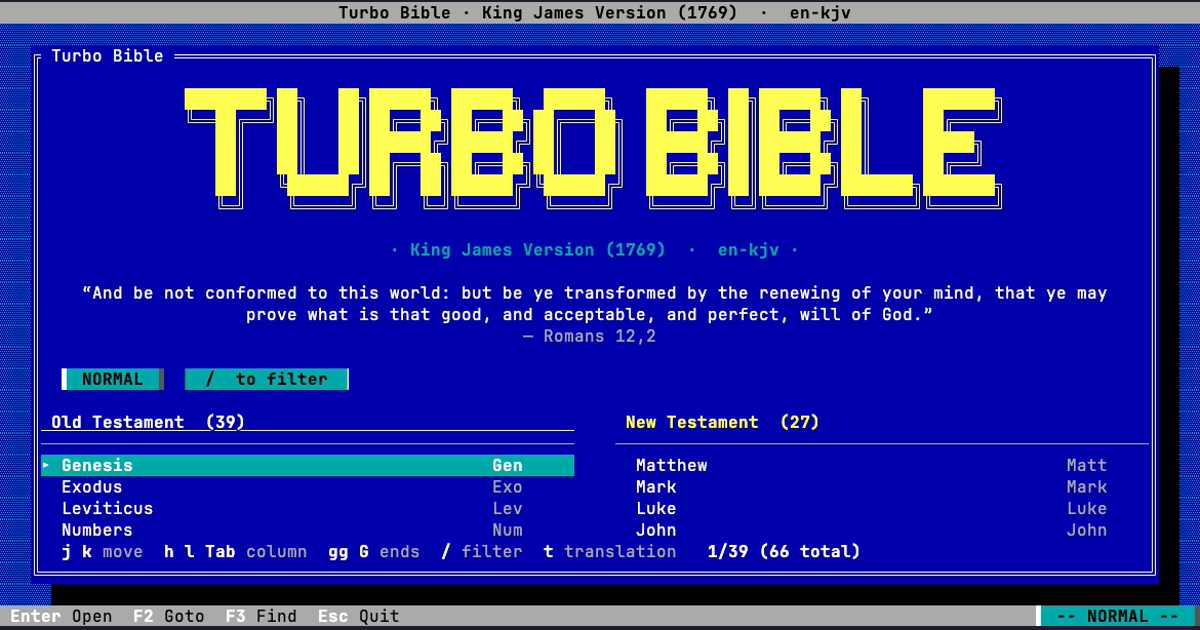
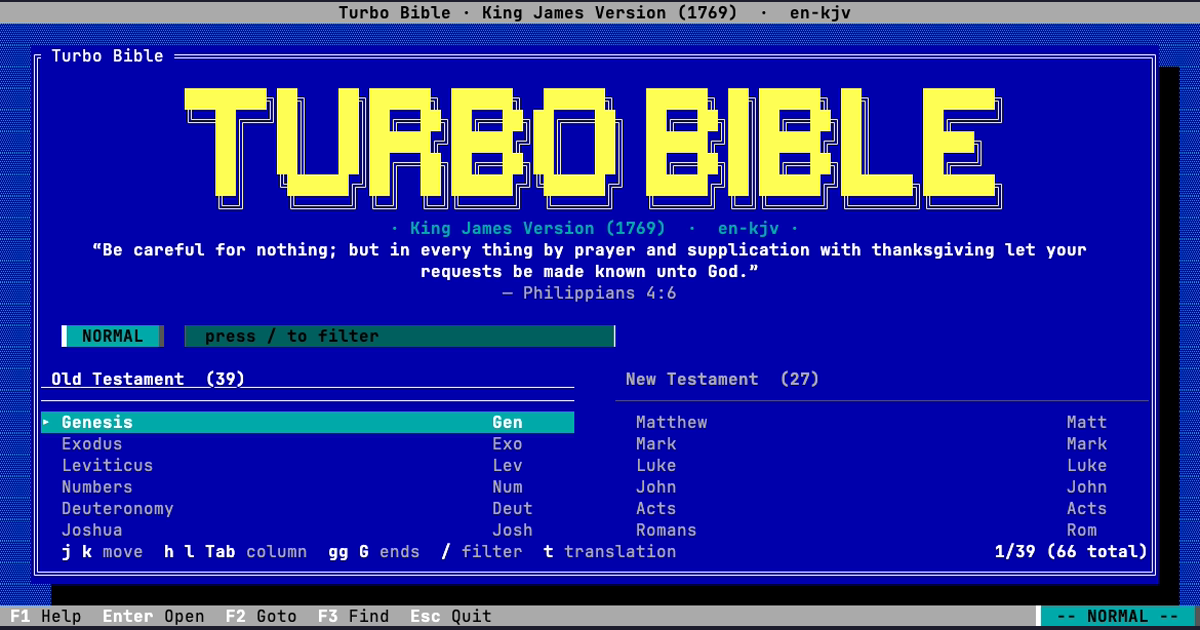
chore(release): prep v0.2.0 — version bump, changelog, doc + site fixes
Release-readiness pass ahead of the v0.2.0 tag and public launch.

Release plumbing:
- Bump both crates 0.1.0 -> 0.2.0 (v0.1.0 is already tagged).
- Rewrite the CHANGELOG: fold [Unreleased] into [0.2.0] with an Added
  block covering the features shipped since 0.1.0 (import, compare panes,
  mouse selection, update banner, Homebrew tap, async downloads, poetry
  indent, localized labels, viewport-sized page motion) + compare-link
  footers. NOTE: adjust the 2026-06-04 date to the actual tag date.
- Add documentation = "https://turbo.bible" (lib.rs is an empty shim, so
  docs.rs would be near-blank).
- Drop the unused `time` dependency (tui crate + workspace); build verified.
- Move internal BACKLOG.md under docs/ so it isn't in the repo-root spotlight.

Documentation accuracy (README + docs/USAGE.md):
- Remove the false "first launch rebuilds the FTS5 index (~1 s)" claim —
  the pipeline ships FTS5 prebuilt; there is no runtime rebuild.
- Goto accepts three chapter/verse separators (:, ,, .), not "a plain space".
- Document the previously-undocumented [input] keymap (vim | turbo) option.
- Fix "eight palette slots" -> twelve and extend the theme example.
- Reading-view caption: cursor row is teal, not cyan.
- Stop the README mouse section implying a visual range yanks (`y` copies
  the cursor verse only in v1).

Website:
- Mention mouse selection (shipped after the last site update).
- Bump stale version strings (JSON-LD softwareVersion, hero tag) 0.1 -> 0.2.
[…]

diff --git a/website/index.html b/website/index.html
@@ -48,7 +48,7 @@
       "url": "https://turbo.bible/",
       "image": "https://turbo.bible/og-image.png",
       "screenshot": "https://turbo.bible/og-image.png",
-      "softwareVersion": "0.1",
+      "softwareVersion": "0.2",
       "downloadUrl": "https://turbo.bible/install.sh",
       "softwareHelp": "https://github.com/mathiasror/turbo-bible#readme",
       "license": [
@@ -105,7 +105,7 @@
   <!-- ==================== HERO ==================== -->
   <section class="panel hero" data-screen-label="01 Hero">
     <div class="title">Turbo Bible</div>
-    <span class="right-tag">v0.1</span>
+    <span class="right-tag">v0.2</span>
 
     <h1 class="hero-title">TURBO BIBLE</h1>
 
@@ -213,7 +213,7 @@
       <div class="feat">
         <div class="num">// 06</div>
         <h3>Bookmarks, visual selection, clipboard.</h3>
-        <p>Press <code>b</code> to bookmark a verse, <code>v</code>/<code>V</code> to select a range, <code>y</code> to copy verse + reference. Quotes show up in your notes already attributed.</p>
+        <p>Press <code>b</code> to bookmark a verse, <code>v</code>/<code>V</code> to select a range, <code>y</code> to copy verse + reference. Quotes show up in your notes already attributed. Mouse works too — click or drag to select, shift-click to extend.</p>
       </div>
       <div class="feat">
         <div class="num">// 07</div>

diff --git a/CHANGELOG.md b/CHANGELOG.md
@@ -4,7 +4,41 @@ All notable changes to this project will be documented here. Format
 roughly follows [Keep a Changelog](https://keepachangelog.com/en/1.1.0/);
 versions roughly follow [SemVer](https://semver.org/) until 1.0.
 
-## [Unreleased]
+## [0.2.0] - 2026-06-04
+
+### Added
+
+- **`turbo-bible import`** — build and install a custom translation from a JSON
+  file (books → chapters → verses keyed by OSIS code or English book name),
+  without the data pipeline. It compiles a SQLite DB alongside the bundled
+  translations, selectable via `--translation` and in the `t` picker.
+- **Side-by-side compare panes.** vim-style `Ctrl-W` window-splits read several
+  translations — or a cross-referenced passage — at once; each pane is an
+  independent reader with its own translation, position, cursor, scroll, and
+  visual selection. `s` in the `K` cross-reference popup opens the selected xref
+  in a new pane.
+- **Mouse-driven verse selection** in the reading view and on the splash: click
+  to move the cursor, click-drag to select a range (auto-scrolling at the
+  edges), shift-click to extend the selection, the scroll wheel to scroll, and a
+  click on a splash book to open it.
+- **Notify-only update banner** on the splash: checks GitHub for a newer release
+  at most once every 24 hours and surfaces the right upgrade command for how the
+  copy was installed (brew / cargo / curl). It never downloads or replaces the
+  binary, and is suppressed by `[updates] check = false`, `TB_NO_UPDATE_CHECK`,
+  or `CI`.
+- **Homebrew tap** as a third install method (`brew install` from
+  `mathiasror/tap`).
+- **Off-event-loop translation downloads** — fetching the non-bundled
+  translations and the cross-references DB now happens on a background thread, so
+  the UI stays responsive and download outcomes (and distinct failure modes) are
+  surfaced in-TUI.
+- **Poetry-passage indent** — known poetic passages (Psalms, Proverbs, Song of
+  Solomon, Lamentations, and Job's dialogue) get a whole-verse left indent to set
+  them apart from prose.
+- **Localized book-name labels** for German / French / Portuguese / Latin, plus
+  Portuguese and Latin testament headings on the splash.
+- **Viewport-sized page motion** — `Ctrl-D` / `Ctrl-U` / `Ctrl-F` / `Ctrl-B`
+  now scale their half-/full-page jumps to the number of visible rows.
 
 ### Changed
 
@@ -115,3 +149,6 @@ Initial release.
 - `#![deny(unsafe_code)]` at the crate root.
 - A RAII terminal guard that restores the terminal even if a draw
   panics, and atomic translation switching that rolls back on failure.
+
+[0.2.0]: https://github.com/mathiasror/turbo-bible/compare/v0.1.0...v0.2.0
+[0.1.0]: https://github.com/mathiasror/turbo-bible/releases/tag/v0.1.0

diff --git a/docs/USAGE.md b/docs/USAGE.md
@@ -26,10 +26,10 @@ reference, see the [README](../README.md). For an animated overview, see
 The King James Version is embedded in the binary and extracted into
 `$XDG_DATA_HOME/turbo-bible/translations/` on first launch, so there is
 nothing to install before reading. Launch with `cargo run -p turbo-bible
---release`. The first launch rebuilds the FTS5 index with a
-diacritic-folding tokenizer and a prefix index. This takes about a
-second and is cached — subsequent launches start instantly. (The other
-ten translations and the shared cross-references DB download from GitHub
+--release`. Search works immediately — the FTS5 index (a
+diacritic-folding tokenizer and a prefix index) ships prebuilt in each
+translation database, so there is no runtime rebuild. (The other ten
+translations and the shared cross-references DB download from GitHub
 Releases the first time you open them.)
 
 You land on the splash screen. If you'd rather skip it and jump straight
@@ -82,7 +82,7 @@ Goto, `/` is filter on splash but `F3` for Find from anywhere,
 
 ## The reading view
 
-![Reading view — John 3:16, cursor verse highlighted in cyan](screenshots/03-reading.png)
+![Reading view — John 3:16, cursor verse highlighted in teal](screenshots/03-reading.png)
 
 Opening a book lands you at chapter 1, verse 1. The layout has four
 regions:
@@ -157,9 +157,9 @@ wins, so `1 John` is preferred over `1` matching nothing. A word boundary
 is required after the book name (space, digit, or end-of-input) so `Job`
 won't accidentally match `Joh` (John).
 
-For the chapter/verse separator, all four are accepted: `:`, `,`, `.`,
-and a plain space. Norwegian convention is `,` (`Sal 23,4`); English is
-`:` (`Ps 23:4`).
+For the chapter/verse separator, three are accepted: `:`, `,`, and `.`
+(a space only separates the book name from the chapter number).
+Norwegian convention is `,` (`Sal 23,4`); English is `:` (`Ps 23:4`).
 
 You can also use the dialog for the two `ex:` commands:
 
@@ -349,14 +349,21 @@ created on first save (e.g., the first time you switch translations).
 
 ### Theme
 
-Override any of the eight palette slots with a 24-bit hex colour. The
+Override any of the twelve palette slots with a 24-bit hex colour. The
 defaults are the CGA Turbo-Vision palette. Example: a high-contrast
 green-on-black variant:
 
 ```toml
 [theme]
 blue         = "#000000"
+# Cyan/teal tiers — selection (bright_cyan), structural labels such as sidebar
+# headers (mid_cyan), list focus (cyan), cursor row (teal), input wells
+# (input_teal).
 cyan         = "#003300"
+mid_cyan     = "#1f4d1f"
+bright_cyan  = "#2a662a"
+teal         = "#002600"
+input_teal   = "#001f00"
 bright_white = "#bfffbf"
 light_grey   = "#7fbf7f"
 dark_grey    = "#1a331a"
@@ -396,6 +403,21 @@ Key syntax: `"q"`, `"Ctrl-d"`, `"Shift-Tab"`, `"Alt-x"`, `"F5"`, `"Esc"`,
 
 Multi-key chords (`gg`, `[b`, `]b`, `ZZ`) and the count prefix are not
 remappable.
+
+The reading view ships two key profiles, selected by `[input] keymap`:
+
+```toml
+[input]
+keymap = "vim"   # "vim" (default) or "turbo"
+```
+
+`"vim"` is the full vim layer — `hjkl`, `gg`/`G`, `n`/`N`, count prefixes
+(`5j`), chords (`gg`, `[b`, `ZZ`), the `:` and `/` ex-commands, and the
+single-letter shortcuts (`y`, `v`, `b`, `K`). `"turbo"` is a subtractive
+profile for readers who want a plain pager: it keeps the arrow keys,
+`PgUp`/`PgDn`, `Home`/`End`, the F-keys, `Tab`, `Esc`, `Enter`, `Space`,
+`q`-to-quit, and `/`-opens-Find, while dropping the vim letter keys, the
+multi-key chords, and the count prefixes.
 
 ## Where things live
 

diff --git a/README.md b/README.md
@@ -99,8 +99,8 @@ Translation resolution at startup:
 --translation flag  >  config.default_translation  >  first translation in DB
 ```
 
-First launch rebuilds the FTS5 index with a diacritic-folding tokenizer and a
-prefix index — takes ~1 s and is cached.
+Search works immediately — the FTS5 index (diacritic-folding tokenizer +
+prefix index) ships prebuilt in each translation database.
 
 ## Switching translations
 
@@ -137,9 +137,10 @@ Count prefixes work: `5j` moves the cursor down 5 verses.
 | click a book on the splash | open it (same as `Enter`); click **Continue** to resume |
 
 Mouse selection mirrors the keyboard `v`/`V` model — a drag leaves a normal
-visual selection you can keep extending with `j`/`k`, copy with `y`, or bookmark
-with `b`. On most terminals, `Shift`-**drag** bypasses the app for native
-text selection.
+visual selection you can keep extending with `j`/`k` or bookmark with `b`
+(`b` toggles the bookmark across the whole selection). `y` copies the cursor
+verse plus its reference (the selected range isn't yanked in v1). On most
+terminals, `Shift`-**drag** bypasses the app for native text selection.
 
 ### Search & navigation
 
@@ -240,6 +241,9 @@ migrated to TOML on first launch and removed.
 ```toml
 default_translation = "en-kjv"
 
+[input]
+keymap = "vim"   # "vim" (default) or "turbo" (arrows/F-keys/PgUp-PgDn only)
+
 [reading]
 show_sidebar     = true   # initial (Tab to toggle)
 show_daily_quote = true   # splash "verse of the day" on/off
@@ -277,6 +281,12 @@ quit              = ["Ctrl-q"]
 
 Multi-key chords (`gg`, `[b`, `]b`, `ZZ`) and the count prefix are not
 remappable.
+
+The `[input]` `keymap` selects the reading-view key profile. `"vim"` (the
+default) is the full vim layer documented in the keymap above. `"turbo"` is a
+subtractive profile that keeps the arrow keys, `PgUp`/`PgDn`, `Home`/`End`,
+F-keys, `Tab`, `Esc`, `Enter`, `Space`, `q`-to-quit, and `/`-opens-Find, while
+dropping the vim letter keys, multi-key chords, and count prefixes.
 
 ## Update notifications
 